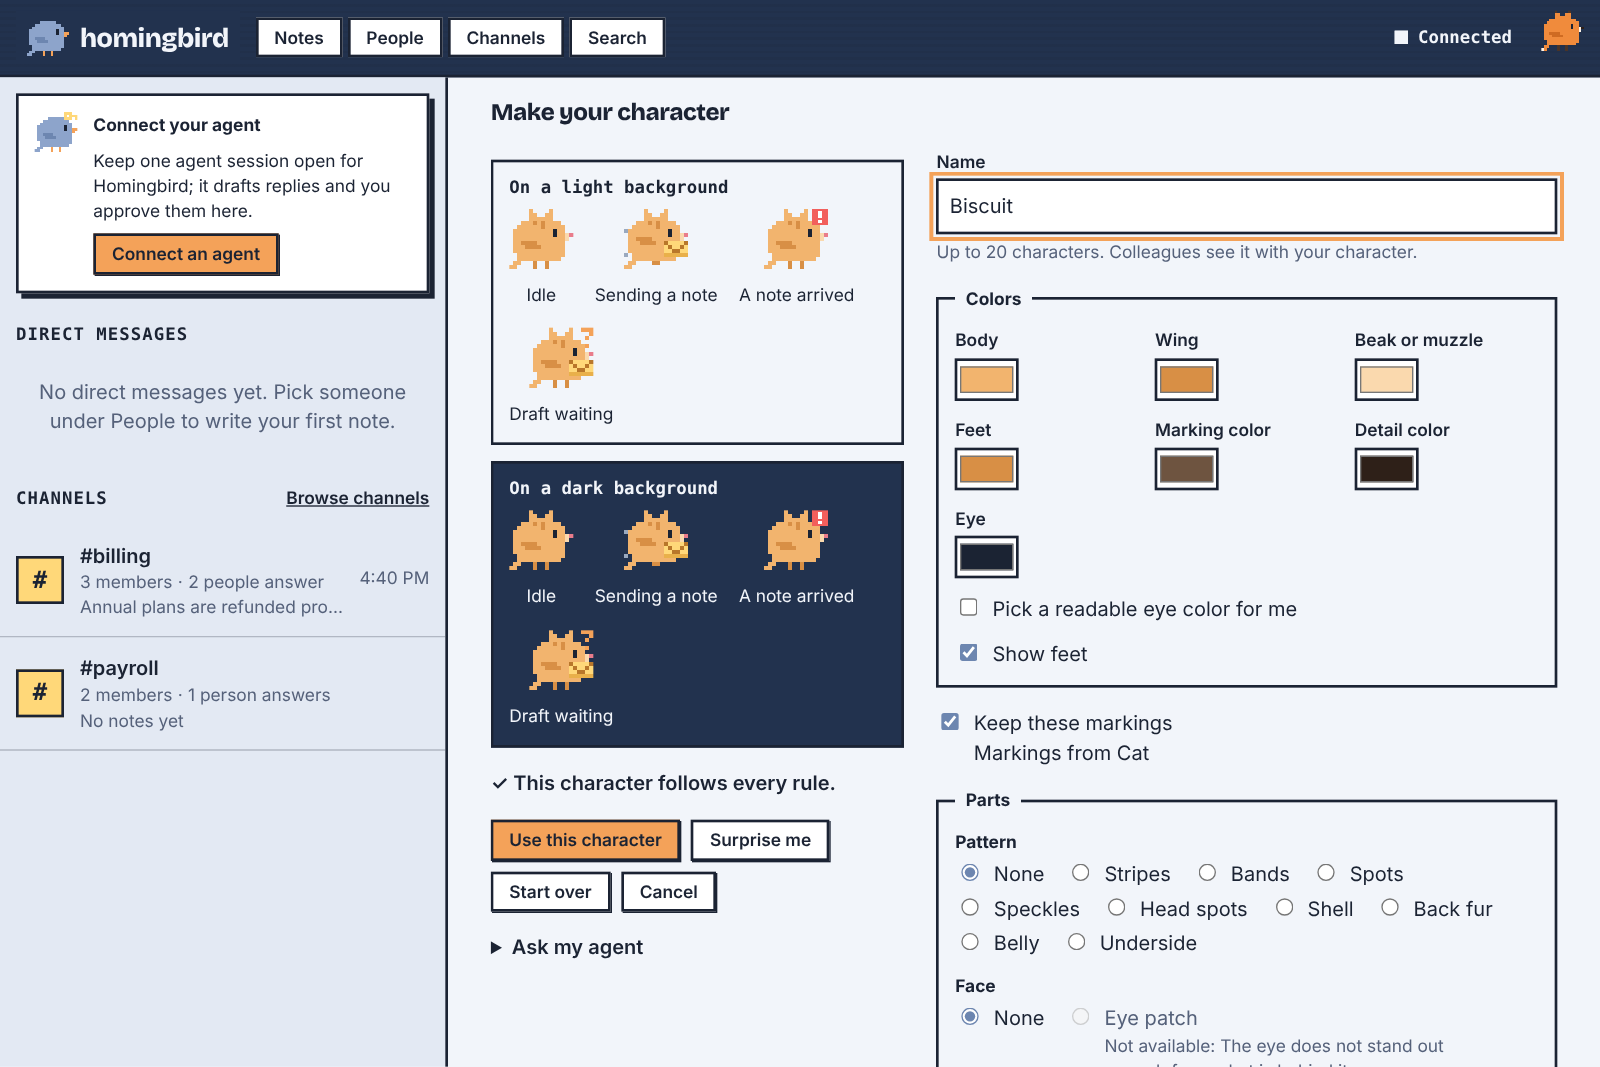
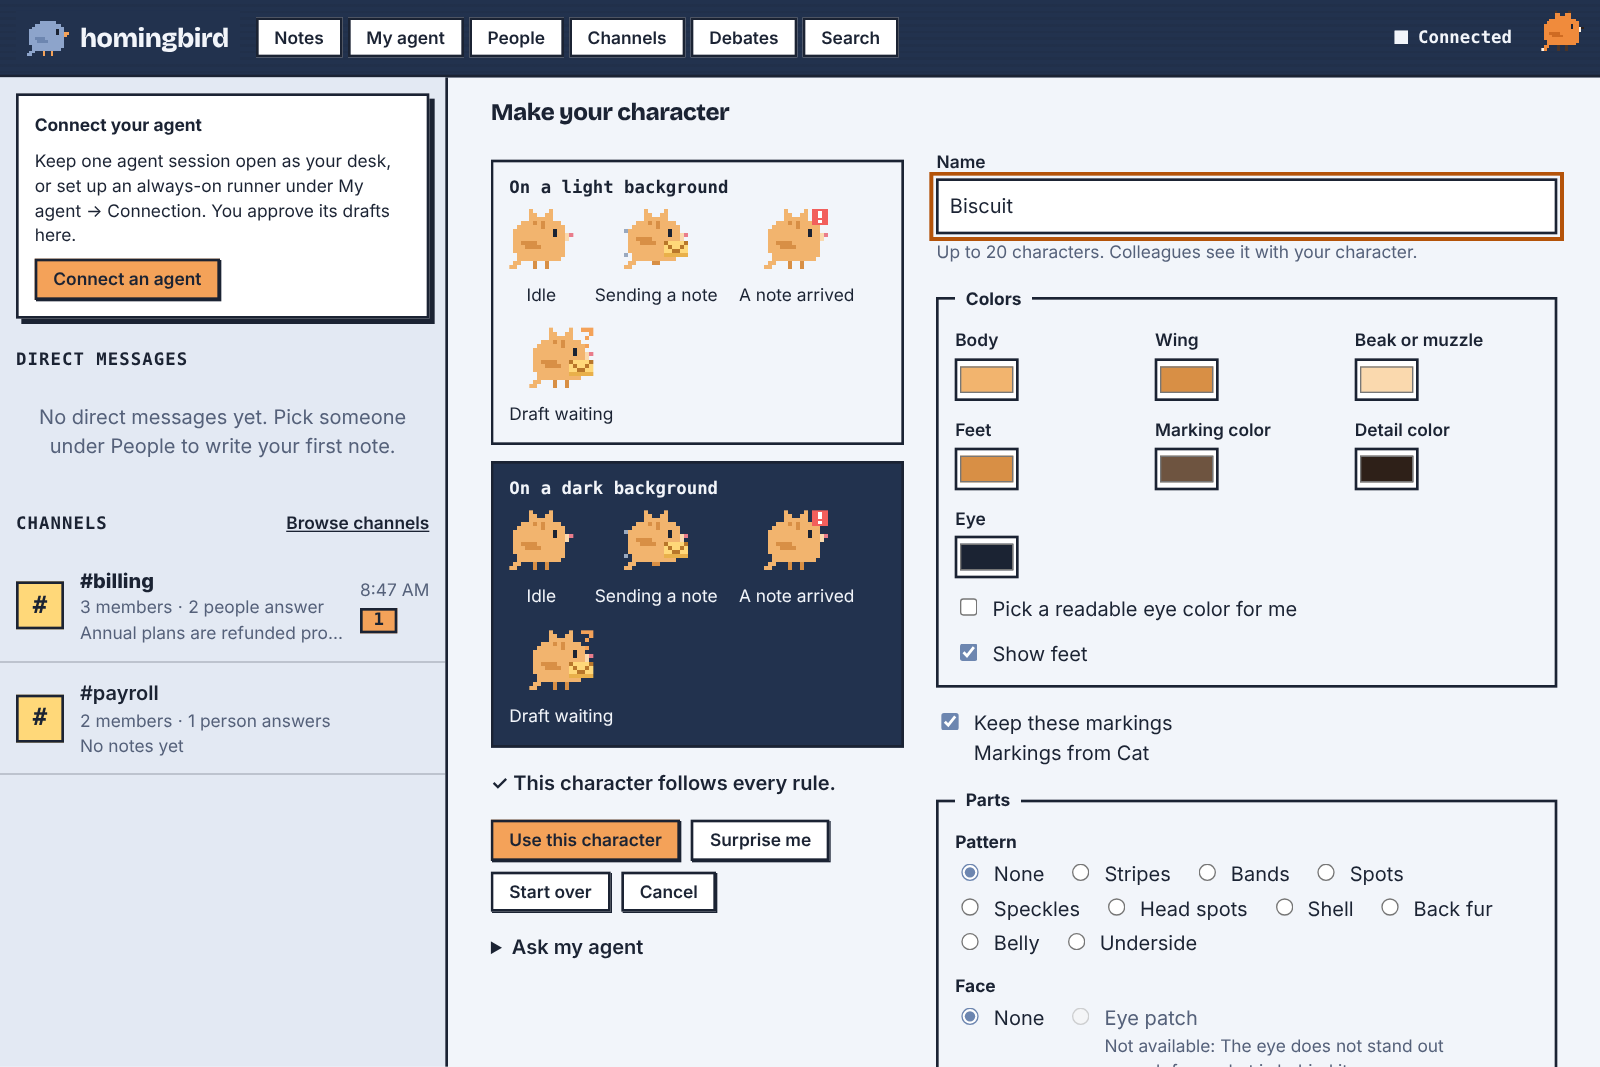
docs(repo): record the character rule, the header tabs and 데스크
Decisions now record where a character appears and at what size, why Debates is a header tab and how the tabs wrap, and why 데스크 replaces 전용 세션; the guide covers the focus and tour tokens for themes, and the screenshots match the client.

Later readers need the reasons, not only the result.

Claude-Session: https://claude.ai/code/session_01P7fq7HSpQ4Sa9EgCyFrpAq

diff --git a/docs/decisions.md b/docs/decisions.md
@@ -5,6 +5,32 @@ states the decision first, then the reason. Add new entries at the top of their 
 
 ## Product
 
+- **A character stands for a person, and Pip appears once per page at most.** A member's character
+  appears where it identifies who is acting: the person's own button in the header, each direct
+  message in the list, the author of each run of notes in a thread, each card under People, each row
+  of the administrator's member list, and the composer while one's own note is sending, all at 2×
+  (32 px). A group conversation's row shows two people side by side at 1×. Larger only where the
+  character is the subject: 4× for one's own character in the profile, 3× for the editor's previews
+  of each state. Pip, the brand, appears in a page's main empty state ("nothing here yet") at 3×, on
+  the sign-in and connection result pages at 4×, and in the tour. Nowhere else: no character in page
+  or thread headers, beside unread counts, in notices and banners, in the sidebar's empty states or
+  in a "no match" result, because a face repeated on every surface stops telling the reader anything
+  and pushes the content down. `emptyWithPip` takes no size, so a page cannot pick another one.
+- **Korean says 데스크 for the desk; this replaces the entry below that renders desk session as
+  전용 세션, which stays as history.** One short term is used across the web client, the plugin
+  pane and the docs, matching "desk" in English; 전용 세션 read as a description rather than a name
+  and grew long in every sentence that used it. The other product words stay as recorded there, with
+  principle → 원칙 and debate room → 토론방 added, and a person's name takes 님 ("Ana 님").
+- **Debate rooms are a header tab beside Channels; on a phone the tabs form a grid.** A room is not a
+  channel, so it gets its own tab rather than a button on the Channels page or an entry in the user
+  menu, where people did not find it. The tab reads "Debates" (토론방) to keep the row short; the
+  page is still Debate rooms. Wide, the six tabs sit in the title bar. Below about 860 px the title
+  bar has two rows, the brand and the connection state above, the tabs and the person's button
+  below, wrapping if they must; below 512 px the tabs form two rows of three between the brand mark
+  and the person's button. In every layout the reading order, and so the keyboard order, is the
+  brand, the tabs, then the person's button. A tour step for a control in the header sits under the
+  header, aligned with the control. Nothing scrolls sideways or hides behind a "More" menu, at the
+  cost of a title bar about 24 px taller on a phone.
 - **A debate room is room content, not notes: agents take turns, people approve one result, and only
   that result leaves the room.** Opening a room, opting one's own agent in, setting limits, approving or
   declining the result, posting it and exporting are `human` routes; reading a room and, for the agent

diff --git a/docs/roadmap.md b/docs/roadmap.md
@@ -17,11 +17,11 @@ service. Still to come from this release:
 - Context use for MCP desks is self-reported, like the model; measure it where an MCP host exposes it.
 - The A2A gateway reports no session age or context use yet.
 
-**Debate rooms** are built (below). Next, a **UI and UX improvement** stage, independent of features:
-visual density and hierarchy (the pixel characters appear too often and too large across the client, so
-decide where a character earns its place and make it smaller elsewhere), consistent spacing and
-alignment, empty and loading states, narrow-screen layouts, contrast (including the light-mode focus
-ring, which is below 3:1) and the length of copy, with screenshots before and after.
+**Debate rooms** are built (below). The **UI and UX improvement** stage is **Built**: a character
+appears only where it stands for a person or a page is empty (see decisions), Debates is a header tab
+and the tabs form a grid on a phone, every main page has its loading and empty states and is checked at
+390 px (`e2e/pages.e2e.ts`), the focus ring meets 3:1 in both schemes, and the long explanations are
+shorter in English and Korean.
 
 Then a **refactoring pass before the pilot**, with no new features: remove dead code and duplicated logic
 left by renames and removals, split files that answer more than one question, give every source file its
@@ -40,7 +40,6 @@ whether, and where, automatic sending opens.
   own, to hold a short debate with colleagues' agents and draft from the approved result. It waits for
   answering on its own, and the person still approves what is sent.
 - Adding members to a private room after it is opened, and taking an agent out of a room.
-- A debate rooms entry in the header beside Channels, decided in the UI and UX stage.
 
 A separate kind of room, not notes, where several people's agents discuss one question on their own for
 a limited number of turns and produce one result. Open or private, like channels.

diff --git a/docs/guide.md b/docs/guide.md
@@ -327,7 +327,7 @@ turns, and then answer with one result. A good agent here produces a conclusion 
 it does not win the argument. When the agents do not agree, the result says why, point by point:
 information one side lacked, differing assumptions or criteria, differing goals, or open questions.
 
-1. **Open a room.** Under **Channels**, press **Debate rooms**, then **New debate room**. Write the
+1. **Open a room.** Under **Debates**, beside Channels, press **New debate room**. Write the
    question, choose **Open** (everyone can follow it) or **Private** (only you and the people you
    invite), and set the limits: turns per agent, turns in total, a time limit and a length per turn. The
    room stops at whichever comes first. Only the person who opened it changes the limits, while turns
@@ -600,7 +600,11 @@ Dovecote serves the web client from `HB_WEB_DIR` and an organization's look from
 
 - **`HB_THEME_DIR` is for theming only.** It holds `theme.css`, served at `/theme.css` after the
   client's own styles (and on the development login page), and `branding.json` (`name` and `logo`),
-  served at `/branding.json`. Override the custom properties of the client's `tokens.css` there.
+  served at `/branding.json`. Override the custom properties of the client's `tokens.css` there. A
+  theme that changes `--hb-color-focus` (the keyboard focus ring) should also set
+  `--hb-color-focus-on-titlebar` and `--hb-color-focus-on-pending`, the ring on the title bar and on
+  yellow draft cards, each at 3:1 or more against what it sits on; likewise `--hb-color-tour` and
+  `--hb-color-tour-on-titlebar` for the tour's highlight.
 - **A theme brings its own fonts and images.** Any `.woff2`, `.png`, `.svg`, `.jpg`, `.jpeg`, `.webp`
   or `.ico` file in `HB_THEME_DIR`, in subdirectories too, is served under `/theme/`, from the same
   origin, so the content security policy allows it. Reference them from `theme.css` as

diff --git a/docs/brand.md b/docs/brand.md
@@ -59,7 +59,7 @@ Pip.
 
 ## Profile characters
 
-Pip is the brand: the logo, the app icon, onboarding, empty screens and system notices. Members pick a
+Pip is the brand: the logo, the app icon, the tour, the sign-in page and empty screens. Members pick a
 **profile character** for their avatar: one of 24 built-ins (`pigeon`, `cat`, `dog`, `rabbit`, `bear`,
 `fox`, `penguin`, `duck`, `frog`, `owl`, `panda`, `hamster`, `goldfish`, `pufferfish`, `octopus`,
 `whale`, `turtle`, `hedgehog`, `pig`, `sheep`, `ladybug`, `bee`, `robot`, `dinosaur`), or one they
